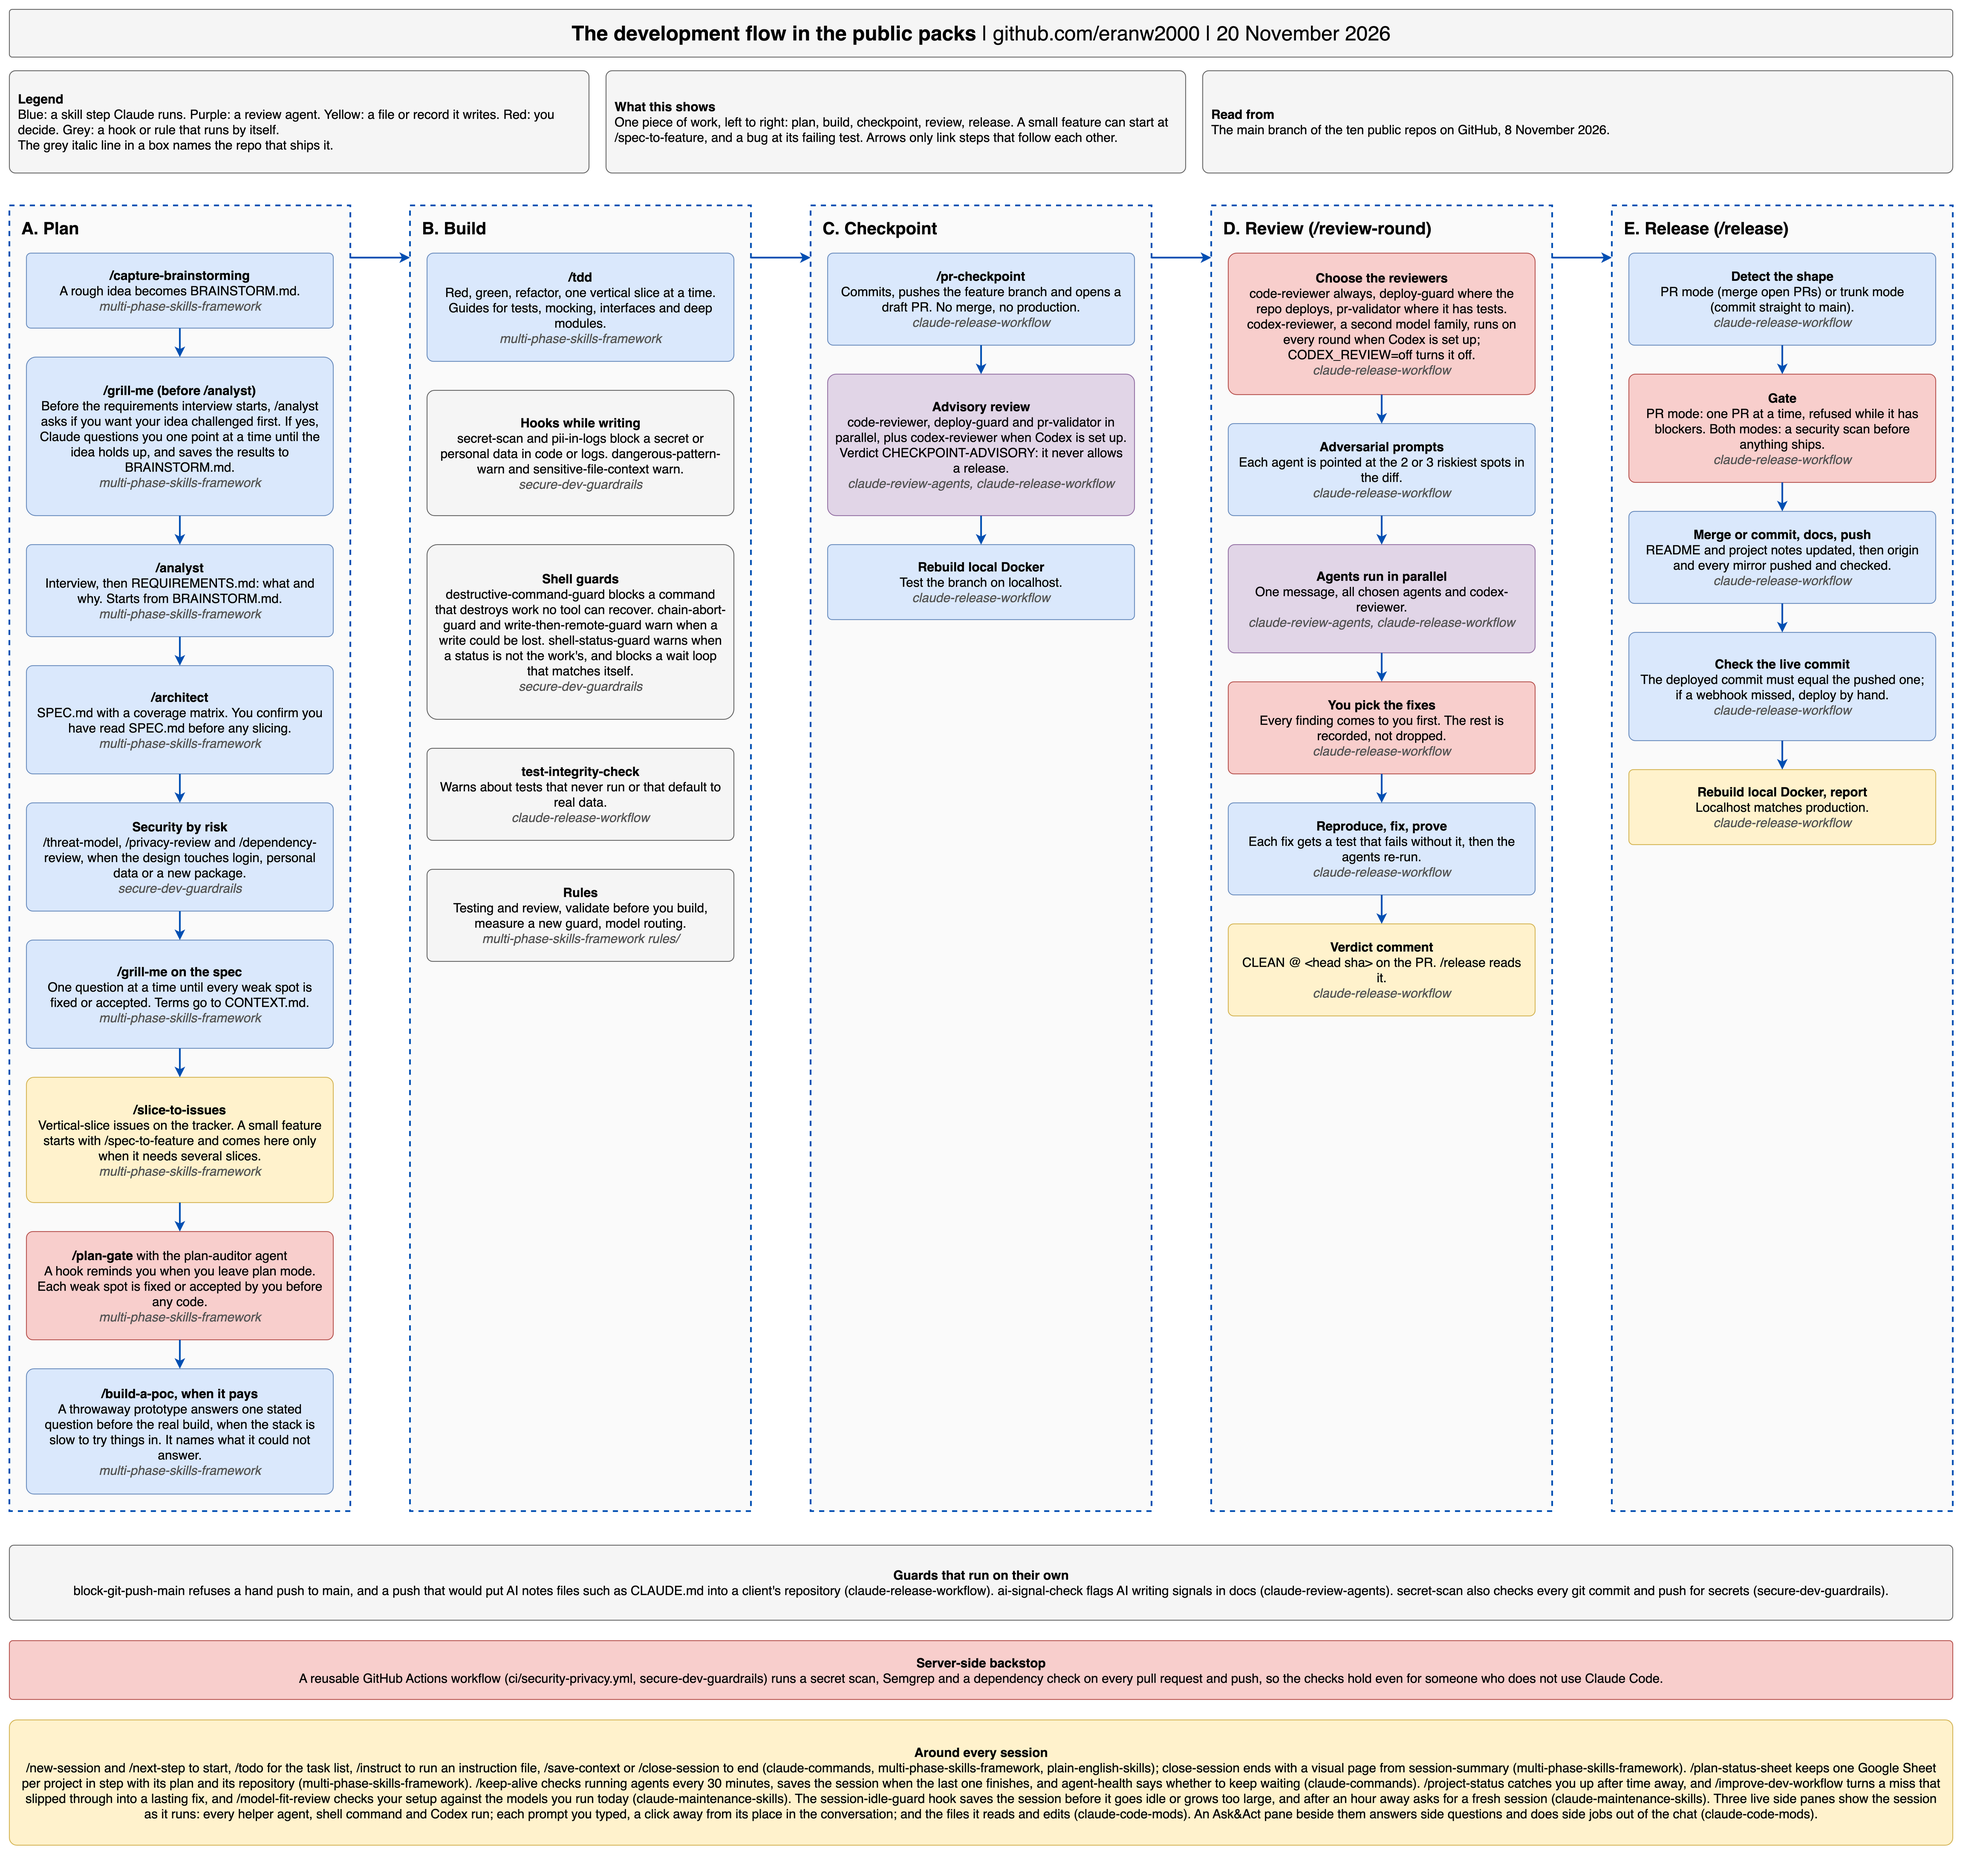
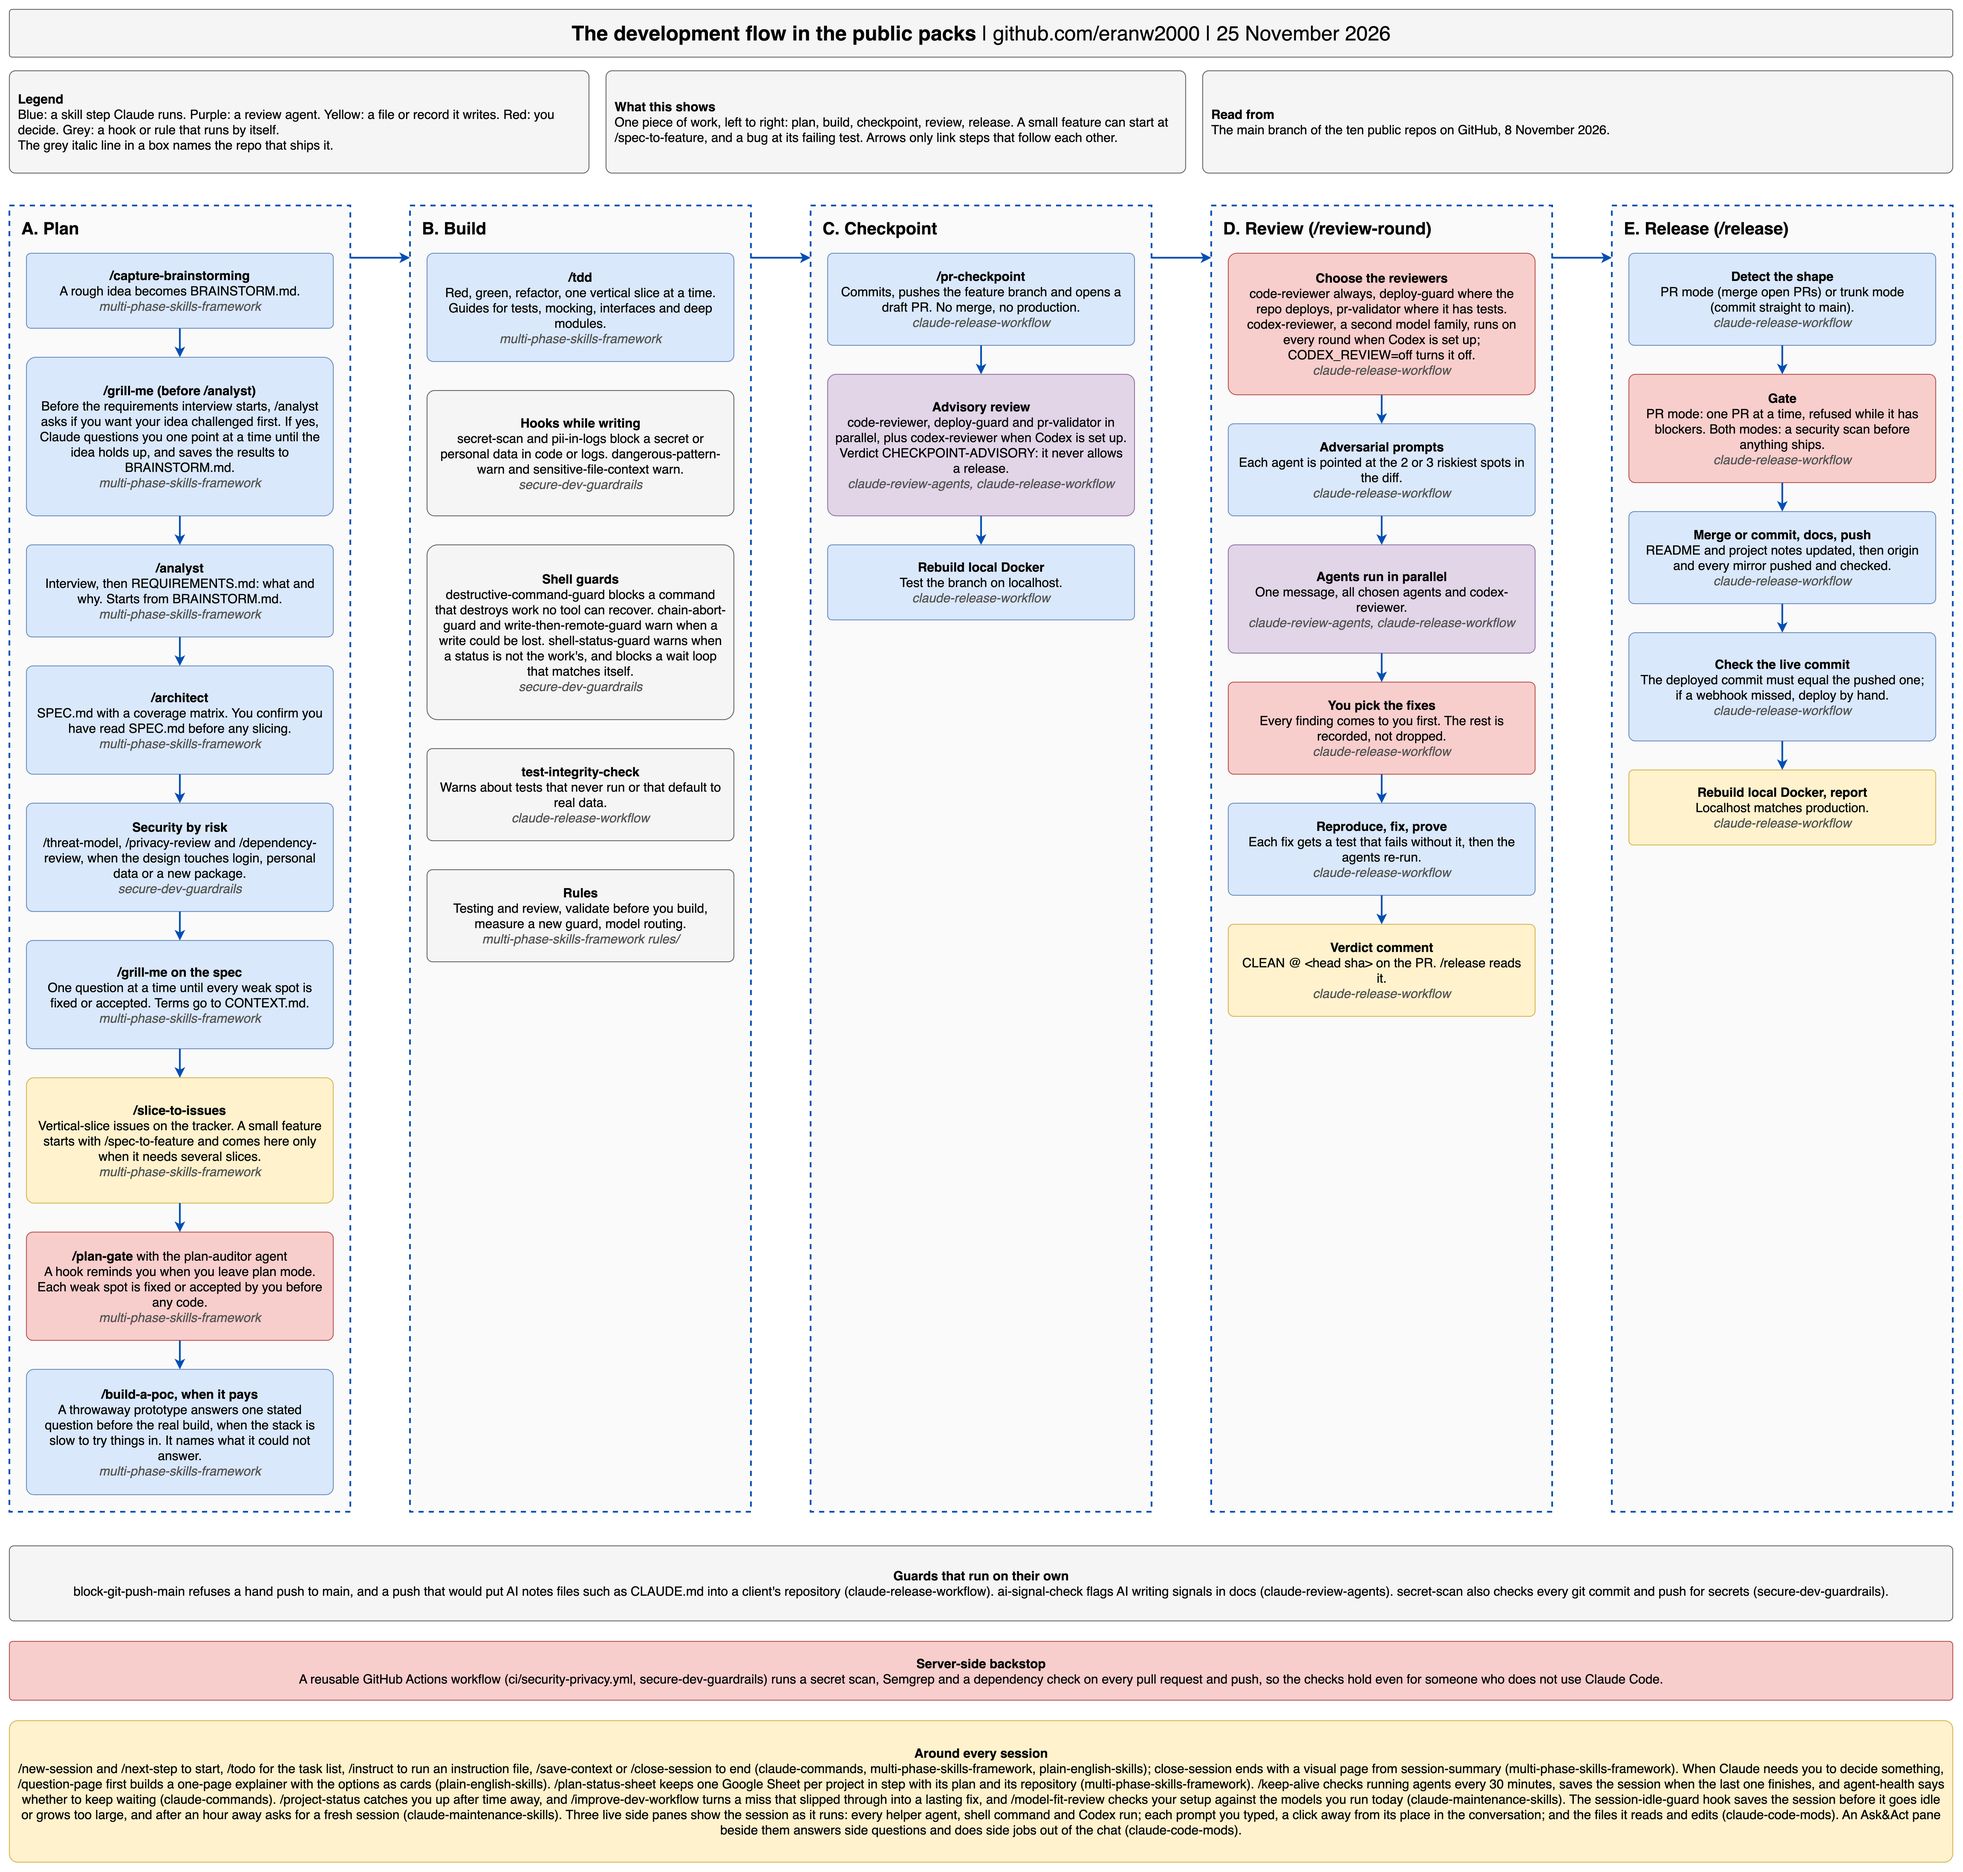
Profile: plain-english-skills ships question-page; the flow diagram names it

diff --git a/README.md b/README.md
@@ -23,7 +23,7 @@ Most of that work lives in private repos. What you see here is the **AI-native d
 - **[drawio-diagram-skill](https://github.com/eranw2000/drawio-diagram-skill)** produces diagrams as draw.io files, then validates and renders them, so the image is looked at before the diagram is called done.
 - **[google-slides-skill](https://github.com/eranw2000/google-slides-skill)** rebuilds a Google Slides deck against branding you point it at: one design system, card layouts instead of paragraph dumps, real tables, and a render of every slide it touches before it says the deck is ready.
 
-- **[plain-english-skills](https://github.com/eranw2000/plain-english-skills)** makes Claude write for a reader instead of for the session it has been sitting in: restate the last report in plain English, name the next step with the command to start it, rewrite a document into Simplified Technical English with a checker that exits non-zero on violations, or make a Word or PowerPoint file usable with a screen reader, aligned with SI 5568 and WCAG AA.
+- **[plain-english-skills](https://github.com/eranw2000/plain-english-skills)** makes Claude write for a reader instead of for the session it has been sitting in: restate the last report in plain English, name the next step with the command to start it, rewrite a document into Simplified Technical English with a checker that exits non-zero on violations, make a Word or PowerPoint file usable with a screen reader, aligned with SI 5568 and WCAG AA, or put a question to you on a one-page explainer with the options as cards.
 - **[claude-code-mods](https://github.com/eranw2000/claude-code-mods)** adds live side panes to Claude Code: one shows every helper agent, shell command and Codex run while it works, one lists each prompt you typed and jumps to it on a click, one shows the files a session reads and edits, one shows your account and how much of each usage limit is used, and one is a box beside the chat that answers side questions and does side jobs.
 
 ### How to Install
